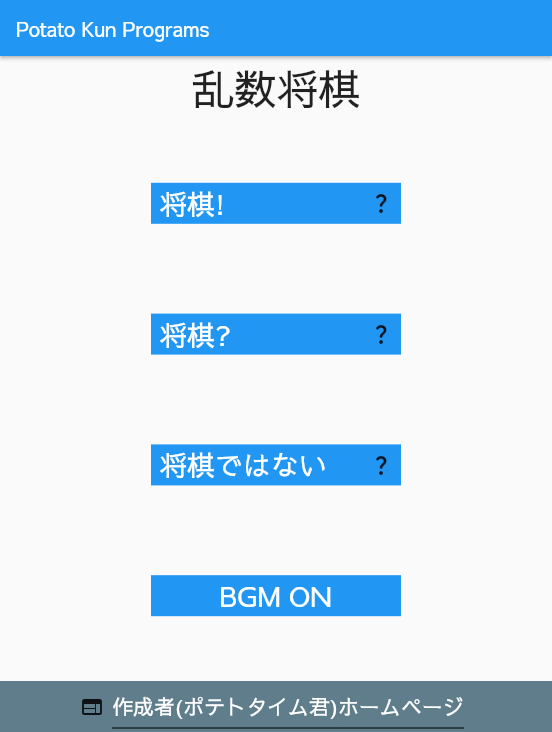
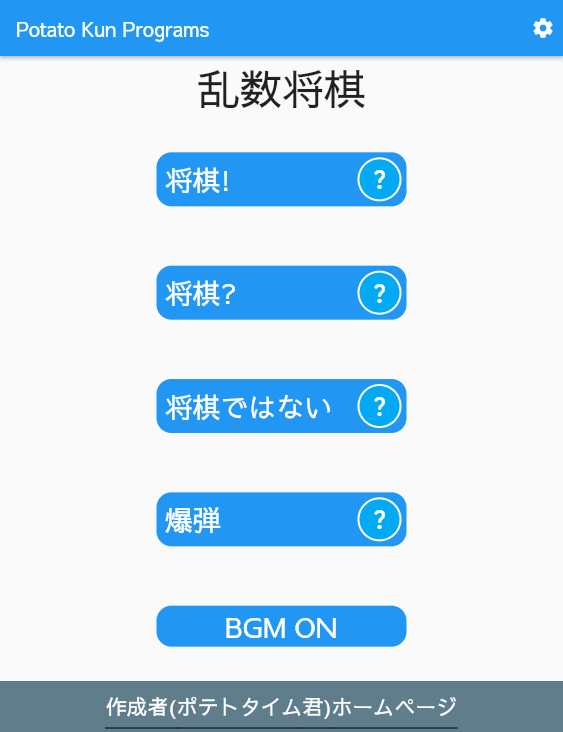
update shogi.html

diff --git a/potatogame/shogi.html b/potatogame/shogi.html
@@ -61,6 +61,7 @@
     <section class="sec">
         <img src="shogi_3.png" class="screenshot">
         <p class="text">
+            (画像はちょっと古いバージョンのものですが、ほぼ同じです。)<br>
             5×5の盤面で自分の王と相手(コンピューター)の王で戦います。<br>
             「駒を動かす」を押すと駒が勝ってに動きます。(自分は青)<br>
             「リセット」で盤面を初期状態に戻し、乱数を作り直します。<br>
@@ -78,9 +79,19 @@
     <section class="sec">
         <img src="shogi_4.png" class="screenshot">
         <p class="text">
+            (画像はちょっと古いバージョンのものですが、ほぼ同じです。)<br>
             どう見ても将棋じゃない<br>
             全部の王を取ったら勝ちです。<br>
             ちなみに王は将棋?と同じワープする方式です。<br>
+        </p>
+    </section>
+    <h2>爆弾</h2>
+    <section class="sec">
+        <img src="shogi_5.png" class="screenshot">
+        <p class="text">
+            爆弾を踏まないでどれだけのターン数生き残れるかというゲームです。<br>
+            爆弾はランダムに配置してます。<br>
+            あれ...?これって将棋のゲームだった気g(((<br>
         </p>
     </section>
     <h2>技術的なこと</h2>
